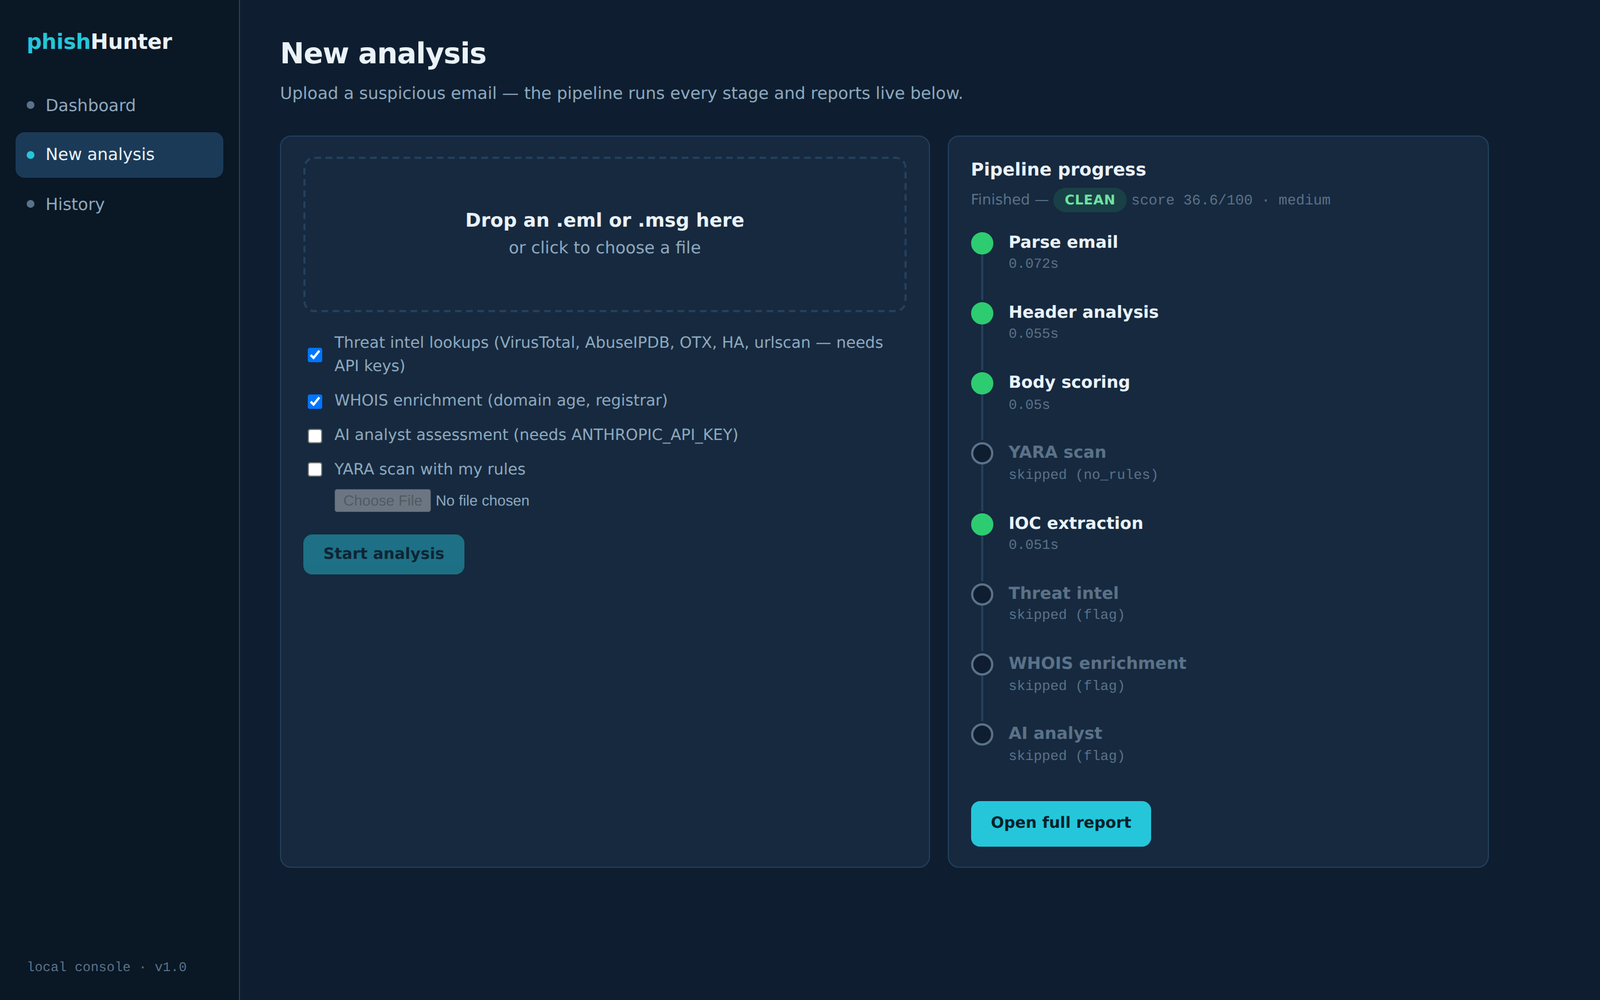
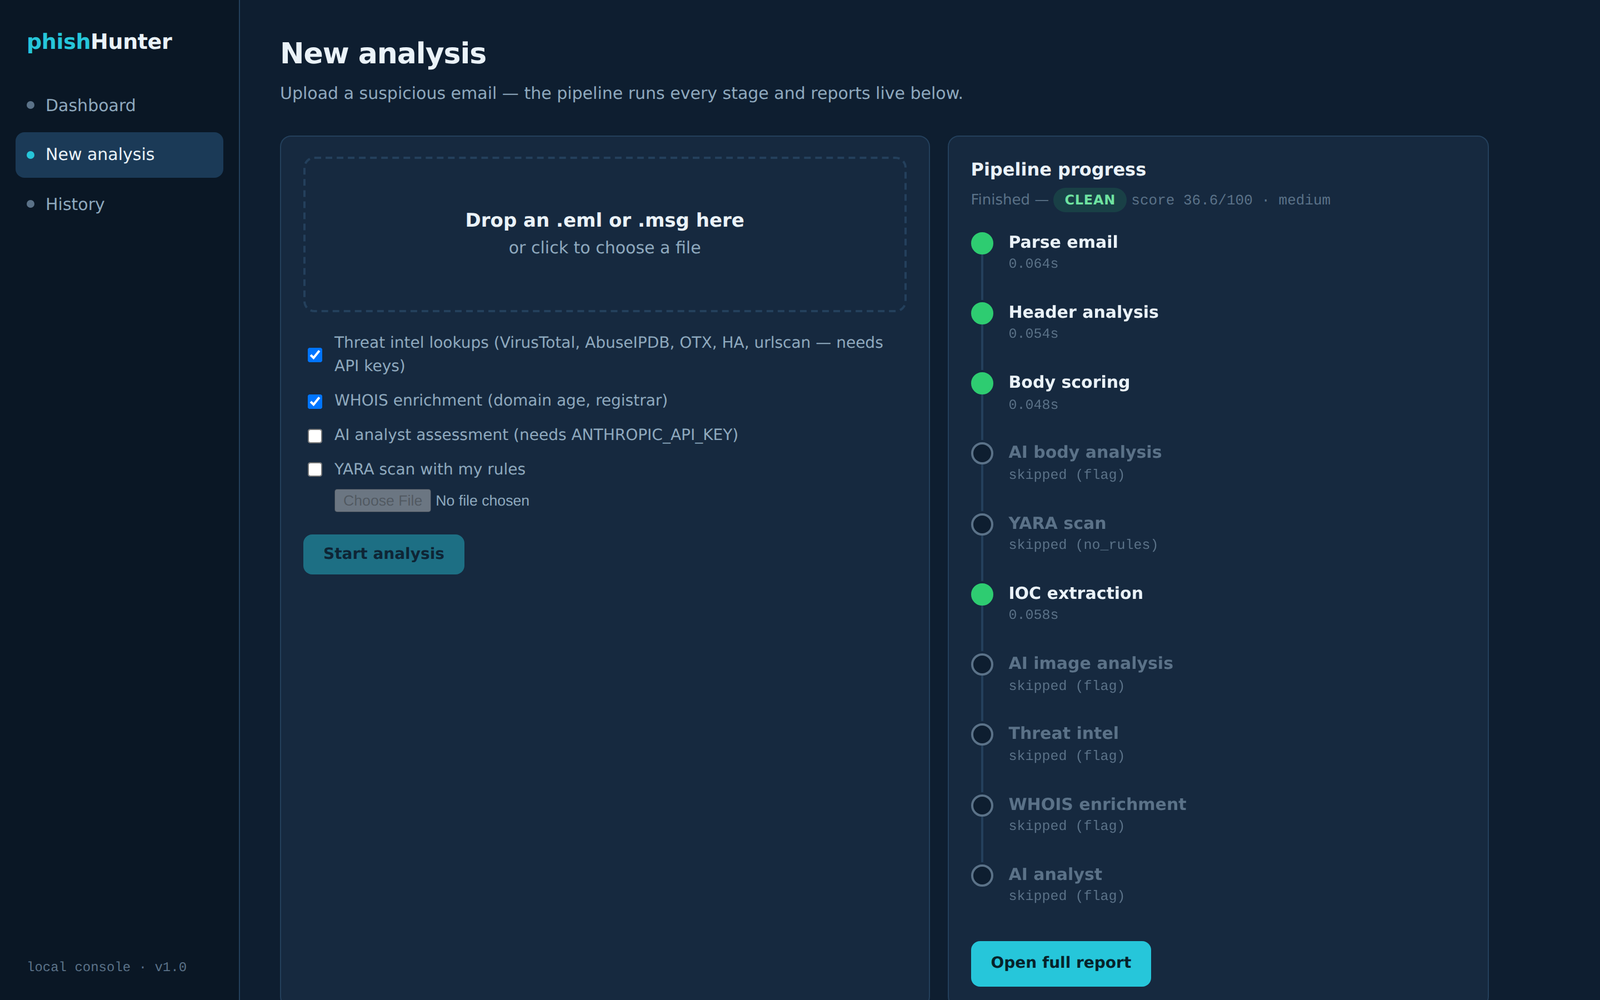
Regenerate sample report and screenshots for the current pipeline

diff --git a/README.md b/README.md
@@ -206,7 +206,8 @@ the UI tails the JSON-Lines audit log, so what you see is exactly what ran.
 Analyses are indexed in a local SQLite database under `webui/data/`
 (uploads, reports, and logs live there too; delete the folder to reset).
 
-**Dashboard** — verdict distribution, totals, and the latest runs at a glance:
+**Dashboard** — verdict distribution, totals, both verdicts per run, and a
+count of the analyses where the AI reached a different conclusion:
 
 ![phishHunter dashboard](docs/screenshots/01-dashboard.png)
 
@@ -215,15 +216,25 @@ skip reasons, and errors streamed straight from the audit log:
 
 ![Live pipeline progress](docs/screenshots/02-analyze-progress.png)
 
-**Report** — the full evidence trail in the browser: colour-coded verdict,
-scored risk signals, header findings by severity, YARA matches, IOCs,
-threat intel, WHOIS ages, and the stage audit trail:
+**Report** — both verdicts as stacked banners, then the full evidence trail:
+scored risk signals, header findings by severity, body and image analysis,
+YARA matches, IOCs, attachment inspection, threat intel, WHOIS ages, and the
+stage audit trail:
 
 ![Analysis report](docs/screenshots/03-report.png)
 
-**History** — filter past analyses by verdict or search by filename:
+**History** — filter by verdict or by **AI disagreement**, and search by
+filename. The AI column carries a marker on every run where the model and the
+rules reached different conclusions:
 
 ![Analysis history](docs/screenshots/04-history.png)
+
+> The analyst commentary in these screenshots is illustrative — written to
+> match what the evidence in each sample supports — because the sample emails
+> are synthetic. Run the pipeline with `--ai` and your own key to see real
+> model output.
+
+
 
 > 🔒 **Security & privacy notes.** The console binds to `127.0.0.1` and has no
 > authentication or CSRF protection — it is a single-analyst workstation tool.
